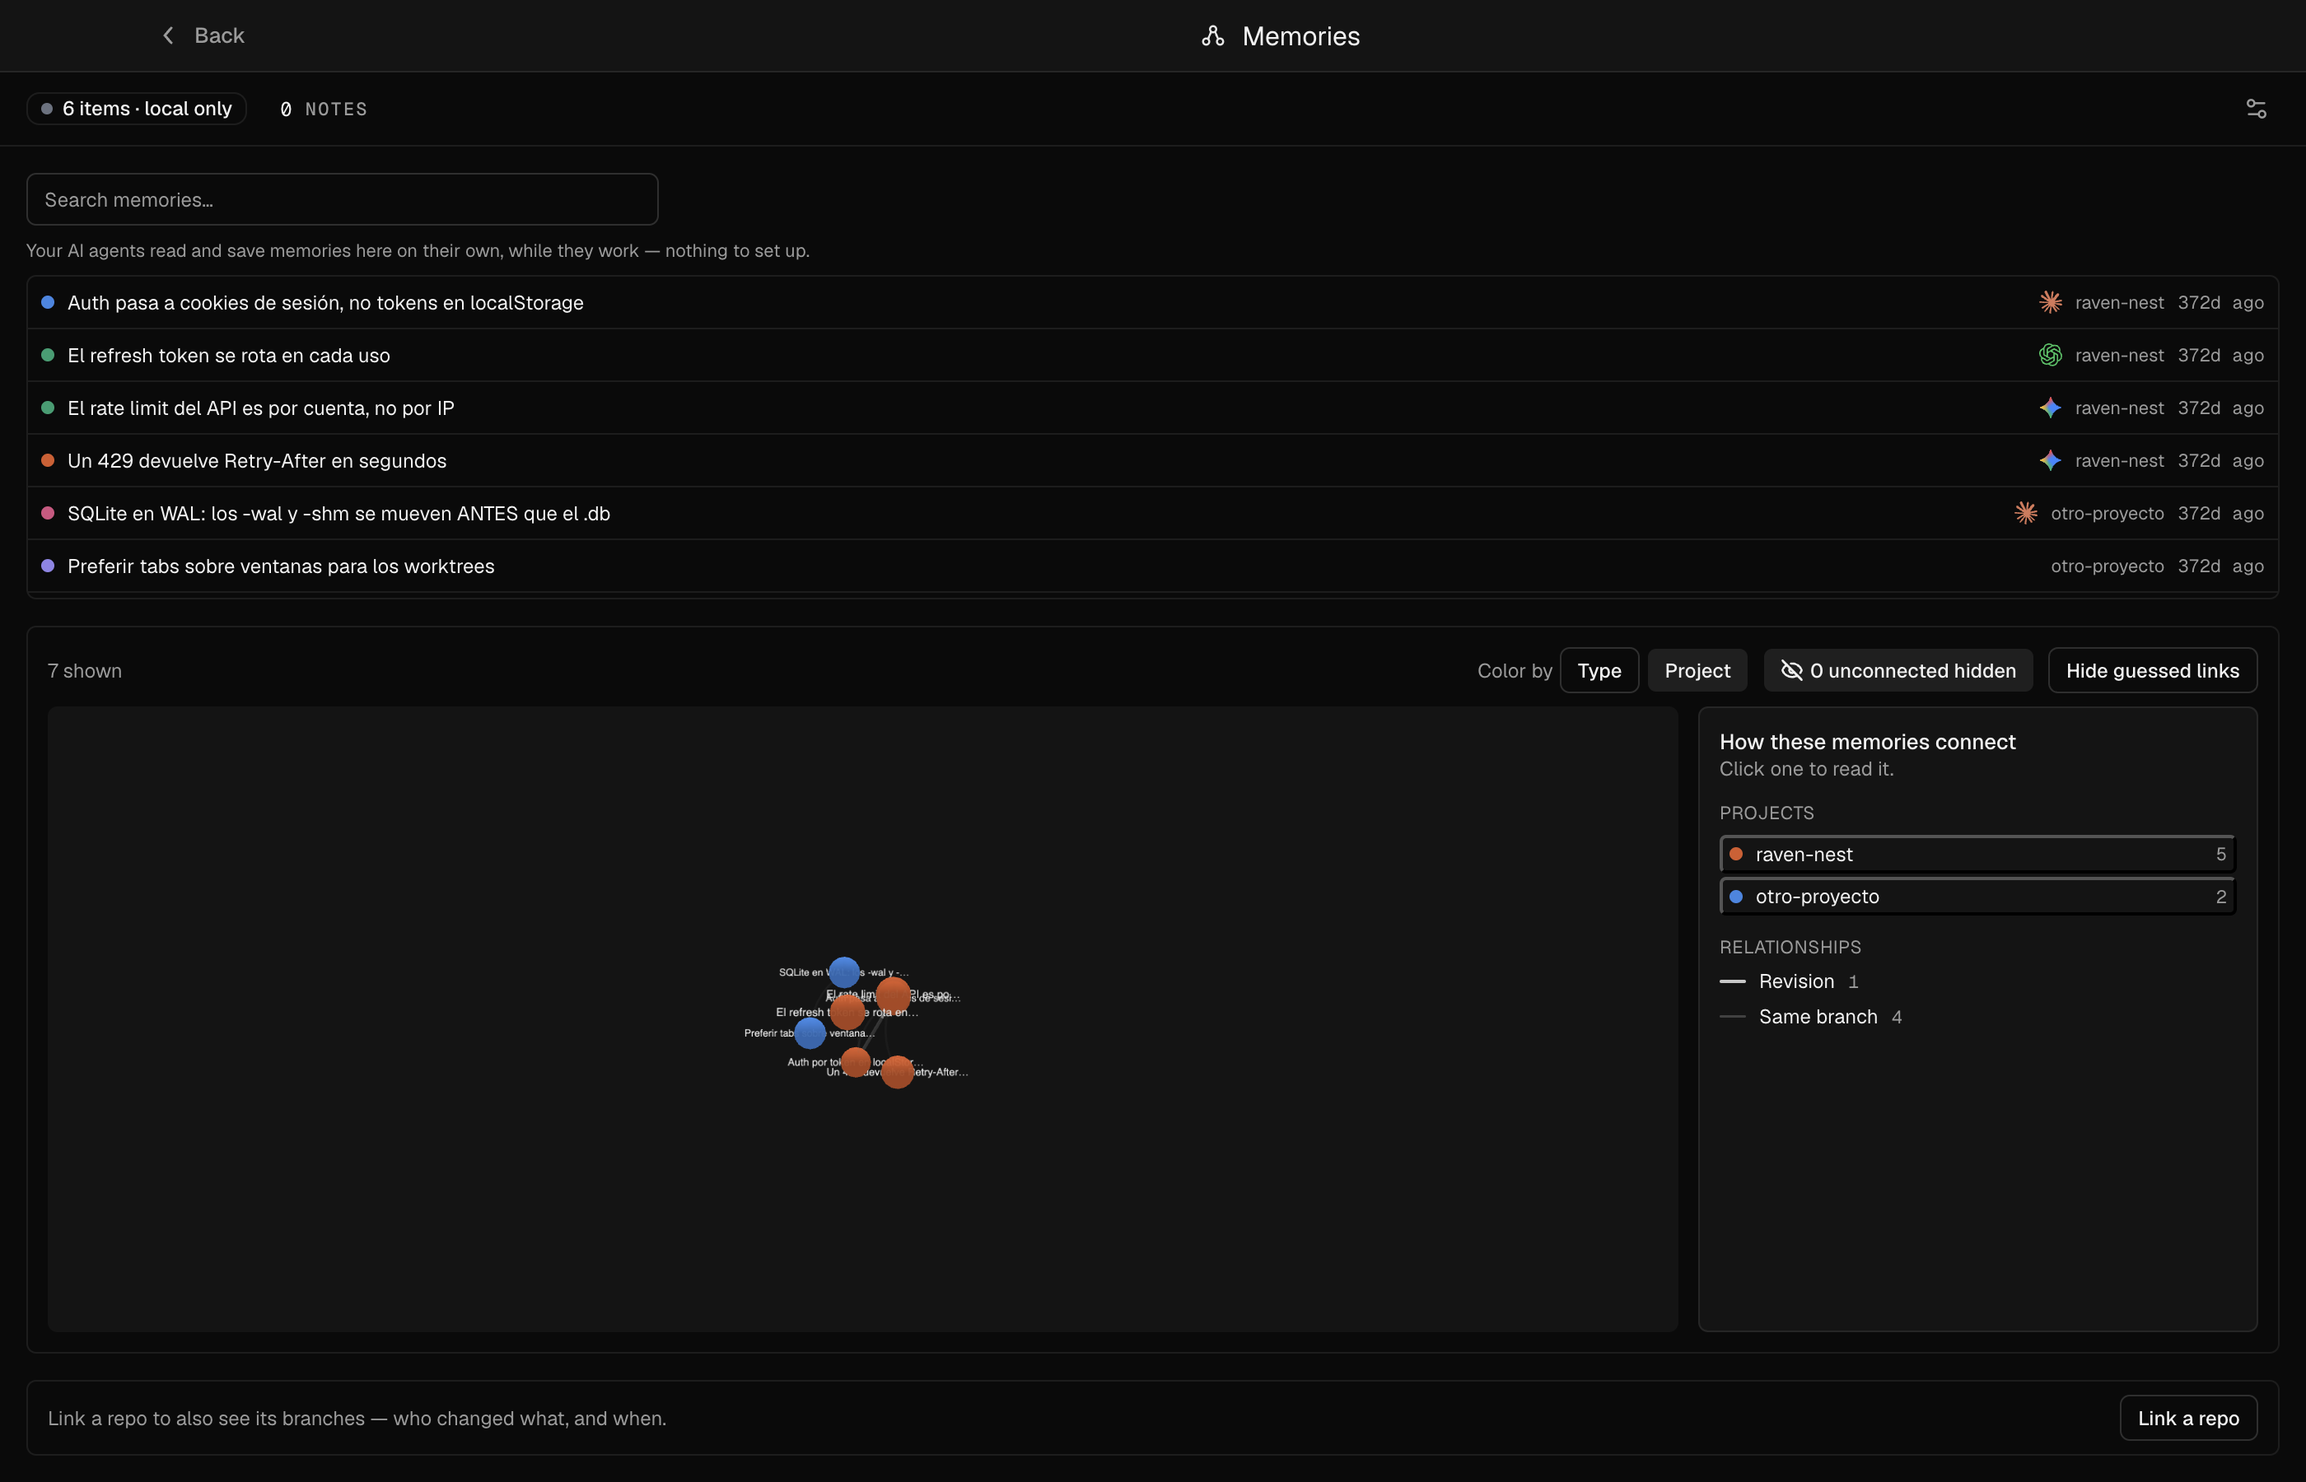
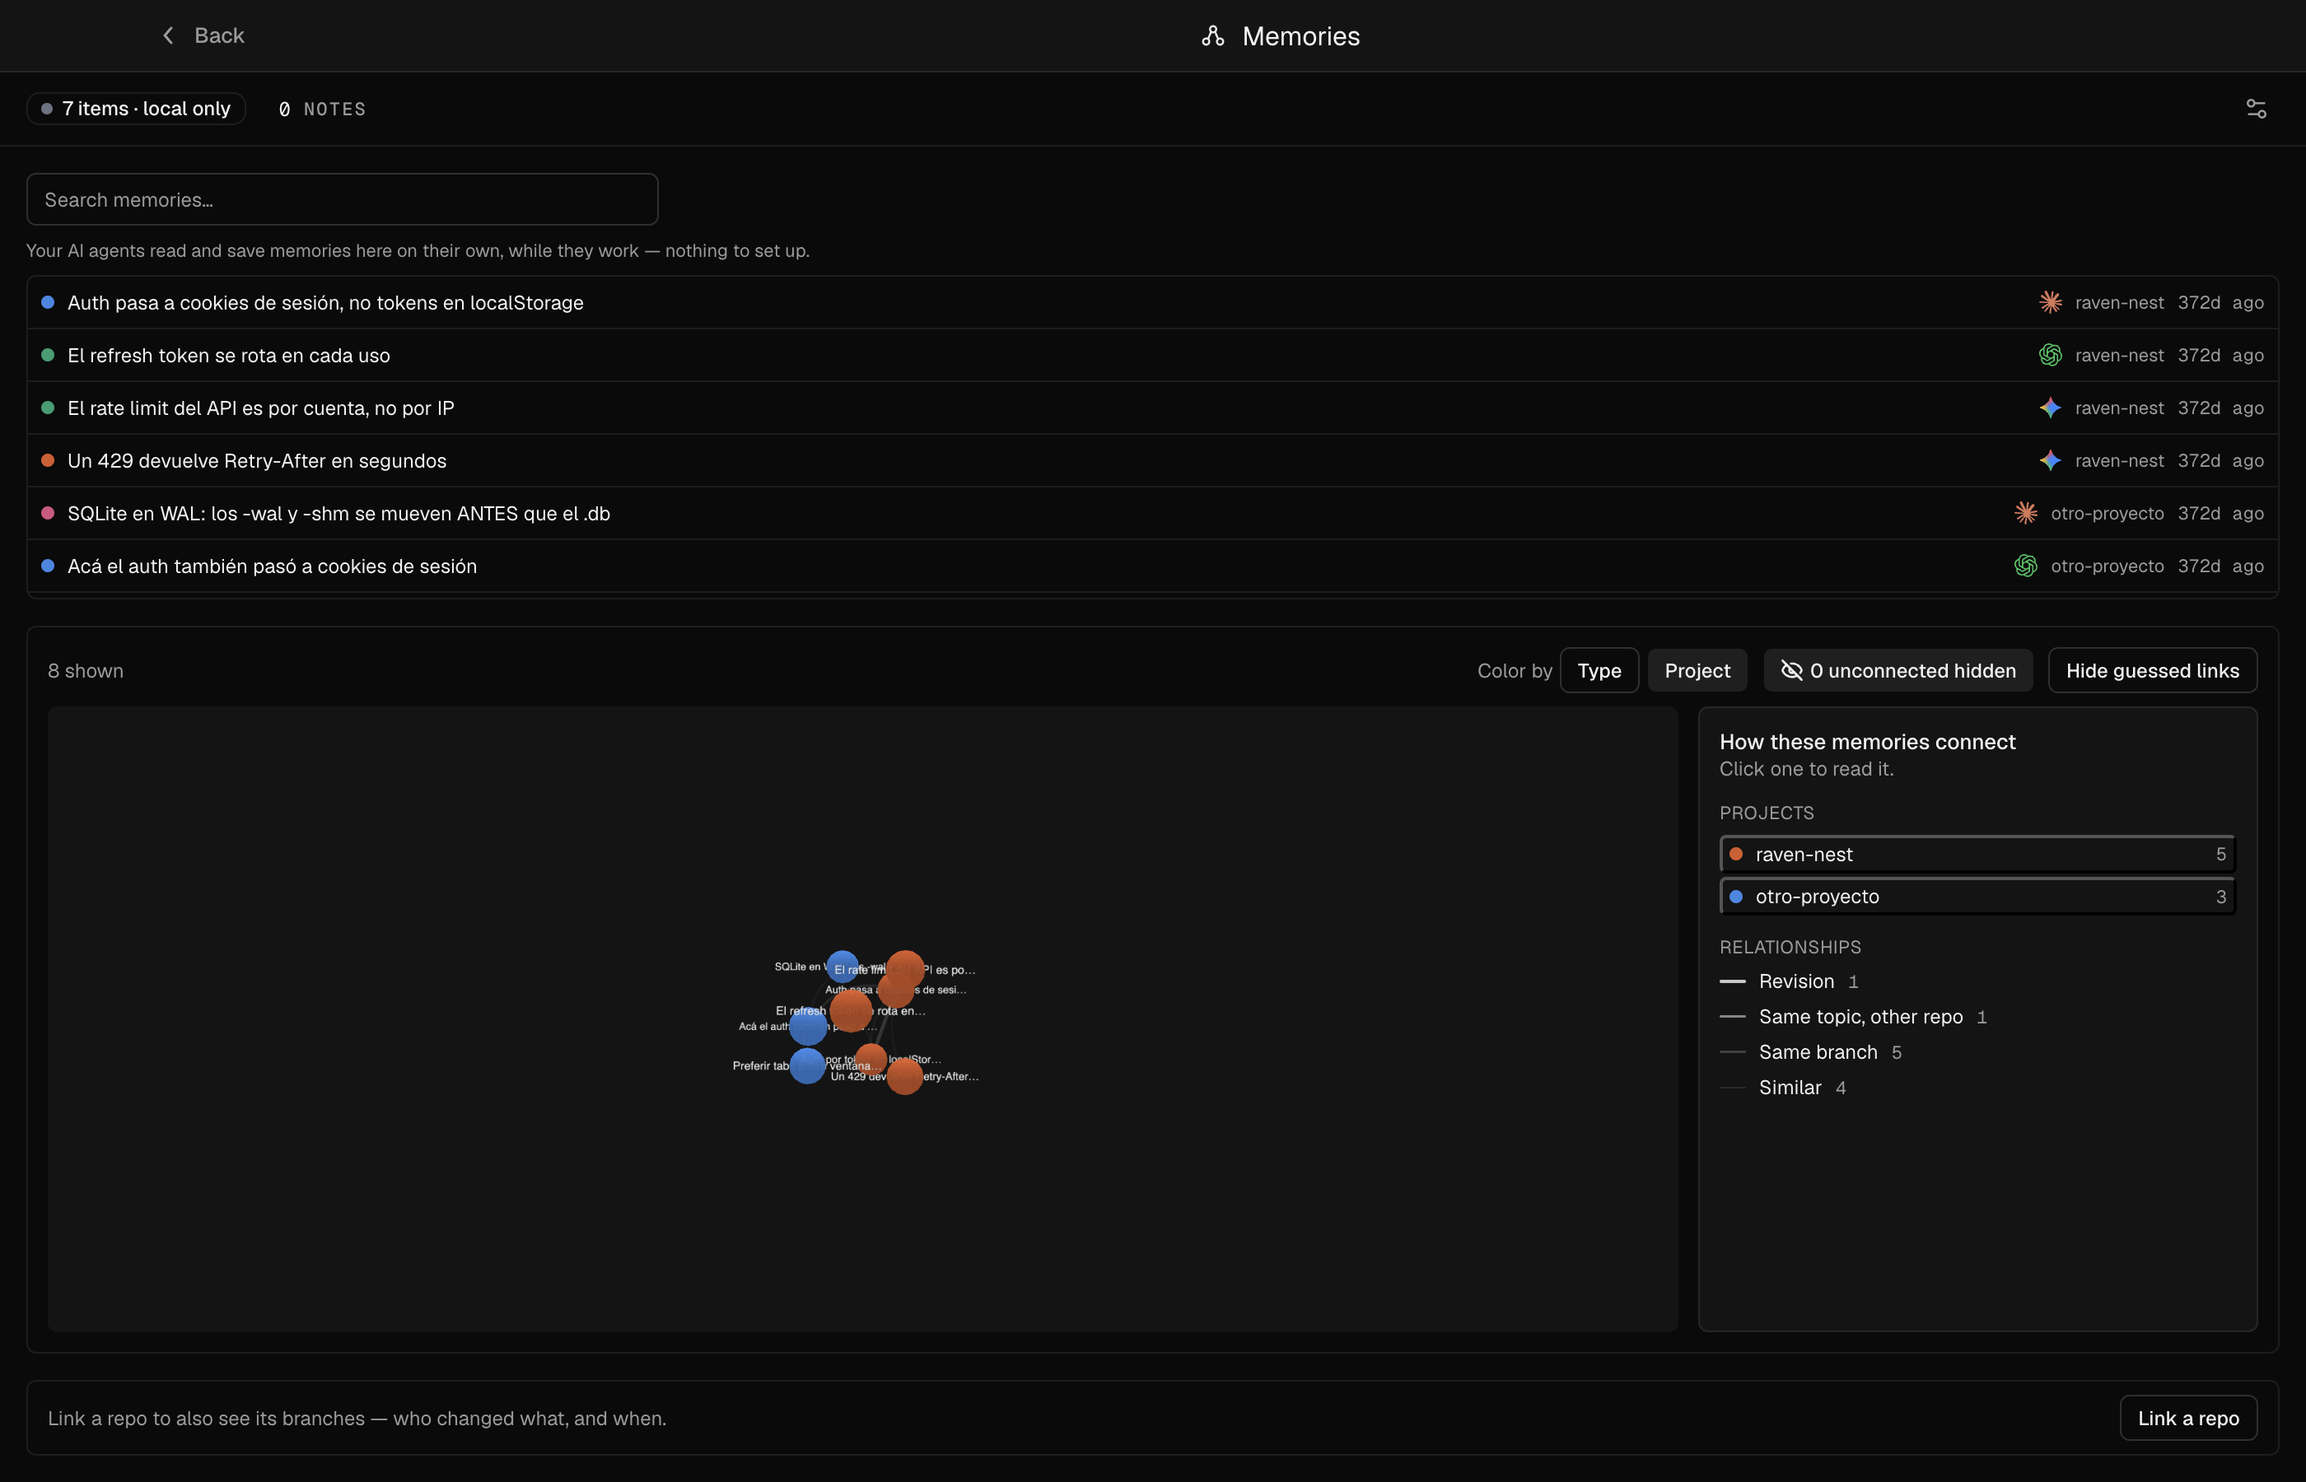
feat(grafo): "mismo tema, otro repo" — la primera arista de hecho que cruza proyectos
Pedido del usuario: "trabajo en conjunto entre repos tambien estaria bueno". Hoy
el grafo NO PODIA conectar dos repos: las cuatro aristas de hecho estan
escopeadas por proyecto, y la unica que cruzaba (`similar`) es inferencia y va
apagada por default.

El escopeo estaba bien fundado en tres de los cuatro casos y no se toca: dos
repos con una rama `main` no comparten nada, un `CLAUDE.md` en cada uno no es el
mismo documento, y una revision es de una memoria concreta. Pero un `topic_key`
SI es una decision deliberada de quien lo puso: si "auth" aparece en dos repos,
hay trabajo sobre el mismo tema en los dos lados, y eso es justo lo que un grafo
de varios proyectos tiene para aportar y no aportaba.

UN representante por proyecto --el mas reciente, con sync_id de desempate para
que no dependa del orden de las filas-- y despues cadena entre representantes. No
todos contra todos: un topic compartido por 4 repos con 10 memorias cada uno
daria 600 aristas en clique y taparia el grafo entero. Asi da 3.

El scope sigue separando: el mismo topic en `personal` y en `team` no cruza.
Mezclarlos filtraria memorias personales a un hilo de equipo.

Se reconoce sola en pantalla, ademas de por su estilo: es la unica que une dos
nodos de COLOR distinto cuando el grafo se colorea por proyecto. El sembrado del
e2e ahora tiene un topic compartido entre los dos proyectos, asi que el camino se
ejercita en pantalla y queda en la captura.
[…]

diff --git a/electron/memory-graph.ts b/electron/memory-graph.ts
@@ -29,7 +29,7 @@
 // vive detrás de `query.includeSimilar`, apagado por default.
 import type Database from 'better-sqlite3'
 
-export type MemoryEdgeKind = 'revision' | 'topic' | 'branch' | 'source' | 'similar'
+export type MemoryEdgeKind = 'revision' | 'topic' | 'branch' | 'source' | 'cross-topic' | 'similar'
 
 export interface MemoryGraphNode {
   syncId: string
@@ -150,6 +150,59 @@ function chainEdges(rows: GraphRow[], kind: MemoryEdgeKind, keyFn: (r: GraphRow)
     )
     for (let i = 0; i < ordered.length - 1; i++) {
       edges.push({ from: ordered[i].sync_id, to: ordered[i + 1].sync_id, kind, directed: false })
+    }
+  }
+  return edges
+}
+
+/**
+ * Aristas que CRUZAN proyectos: el mismo `topic_key` en dos repos distintos.
+ *
+ * Las otras tres aristas de hecho estan escopeadas por proyecto, y con razon: dos repos con
+ * una rama `main` no comparten nada, y un `CLAUDE.md` en cada uno no es el mismo documento.
+ * Pero un topic_key SI es una decision deliberada de quien lo puso — si "auth" aparece en
+ * dos repos, eso es trabajo sobre el mismo tema en los dos lados, que es justo lo que un
+ * grafo de varios proyectos tiene para aportar y hoy no aportaba.
+ *
+ * Un REPRESENTANTE por proyecto (el mas reciente), y despues cadena entre representantes.
+ * No todos contra todos: un topic compartido por 4 repos con 10 memorias cada uno daria
+ * 600 aristas en clique y taparia el grafo entero. Asi da 3.
+ */
+function crossProjectTopicEdges(rows: GraphRow[]): MemoryGraphEdge[] {
+  const porTopic = new Map<string, GraphRow[]>()
+  for (const r of rows) {
+    if (!r.topic_key) continue
+    const key = `${r.scope}\u0000${r.topic_key}`
+    const lista = porTopic.get(key)
+    if (lista) lista.push(r)
+    else porTopic.set(key, [r])
+  }
+
+  const edges: MemoryGraphEdge[] = []
+  for (const grupo of porTopic.values()) {
+    // Un representante por proyecto: el mas reciente, con sync_id de desempate para que el
+    // resultado no dependa del orden en que vinieron las filas.
+    const representantes = new Map<string, GraphRow>()
+    for (const r of grupo) {
+      const actual = representantes.get(r.project_key)
+      if (!actual
+        || r.updated_at > actual.updated_at
+        || (r.updated_at === actual.updated_at && r.sync_id < actual.sync_id)) {
+        representantes.set(r.project_key, r)
+      }
+    }
+    if (representantes.size < 2) continue
+
+    const ordenados = [...representantes.values()].sort(
+      (a, b) => a.project_key.localeCompare(b.project_key)
+    )
+    for (let i = 0; i < ordenados.length - 1; i++) {
+      edges.push({
+        from: ordenados[i].sync_id,
+        to: ordenados[i + 1].sync_id,
+        kind: 'cross-topic',
+        directed: false,
+      })
     }
   }
   return edges
@@ -393,7 +446,11 @@ export function buildMemoryGraph(db: Database.Database, query: MemoryGraphQuery)
     })
   )
 
-  // 5. similar — opt-in (query.includeSimilar), apagada por default. Es inferencia sobre
+  // 5. cross-topic — el mismo topic en OTRO repo. La unica arista de hecho que cruza
+  // proyectos; ver crossProjectTopicEdges para por que las otras no lo hacen.
+  edges.push(...crossProjectTopicEdges(selected))
+
+  // 6. similar — opt-in (query.includeSimilar), apagada por default. Es inferencia sobre
   // contenido, no un hecho declarado como las tres de arriba (ver MemoryGraphQuery). Si ya
   // hay una arista entre A y B por revision/topic/branch, esa gana y no se duplica.
   if (query.includeSimilar) {

diff --git a/electron/__tests__/memory-graph.test.ts b/electron/__tests__/memory-graph.test.ts
@@ -281,3 +281,65 @@ describe('arista source — mismo documento de origen', () => {
     expect(buildMemoryGraph(db, Q()).edges.filter((e) => e.kind === 'source')).toHaveLength(2)
   })
 })
+
+// La unica arista de HECHO que cruza proyectos. Las otras tres estan escopeadas por
+// proyecto con razon (dos repos con una rama `main` no comparten nada, un CLAUDE.md en cada
+// uno no es el mismo documento), pero un topic_key SI es una decision deliberada: si "auth"
+// aparece en dos repos, hay trabajo sobre el mismo tema en los dos lados.
+describe('arista cross-topic — el mismo tema en otro repo', () => {
+  it('une dos proyectos que comparten topic_key', () => {
+    insert({ syncId: 'a', projectKey: 'uno', topicKey: 'auth', updatedAt: 1 })
+    insert({ syncId: 'b', projectKey: 'dos', topicKey: 'auth', updatedAt: 2 })
+
+    const cross = buildMemoryGraph(db, Q()).edges.filter((e) => e.kind === 'cross-topic')
+    expect(cross).toHaveLength(1)
+    expect(cross[0].directed).toBe(false)
+  })
+
+  it('dentro del MISMO proyecto no emite cross-topic: para eso esta `topic`', () => {
+    insert({ syncId: 'a', projectKey: 'uno', topicKey: 'auth', updatedAt: 1 })
+    insert({ syncId: 'b', projectKey: 'uno', topicKey: 'auth', updatedAt: 2 })
+
+    const g = buildMemoryGraph(db, Q())
+    expect(g.edges.filter((e) => e.kind === 'cross-topic')).toHaveLength(0)
+    expect(g.edges.filter((e) => e.kind === 'topic')).toHaveLength(1)
+  })
+
+  it('topics distintos no se unen aunque sean de proyectos distintos', () => {
+    insert({ syncId: 'a', projectKey: 'uno', topicKey: 'auth', updatedAt: 1 })
+    insert({ syncId: 'b', projectKey: 'dos', topicKey: 'pagos', updatedAt: 2 })
+
+    expect(buildMemoryGraph(db, Q()).edges.filter((e) => e.kind === 'cross-topic')).toHaveLength(0)
+  })
+
+  // UN representante por proyecto, y despues cadena. Todos contra todos taparia el grafo:
+  // un topic compartido por 4 repos con 10 memorias cada uno daria 600 aristas.
+  it('con varias memorias por proyecto, une representantes: 3 repos dan 2 aristas', () => {
+    for (const [p, n] of [['uno', 3], ['dos', 3], ['tres', 3]] as const) {
+      for (let i = 0; i < n; i++) {
+        insert({ syncId: `${p}-${i}`, projectKey: p, topicKey: 'auth', updatedAt: i + 1 })
+      }
+    }
+
+    expect(buildMemoryGraph(db, Q()).edges.filter((e) => e.kind === 'cross-topic')).toHaveLength(2)
+  })
+
+  it('el representante de cada proyecto es el mas reciente', () => {
+    insert({ syncId: 'viejo', projectKey: 'uno', topicKey: 'auth', updatedAt: 1 })
+    insert({ syncId: 'nuevo', projectKey: 'uno', topicKey: 'auth', updatedAt: 9 })
+    insert({ syncId: 'otro', projectKey: 'dos', topicKey: 'auth', updatedAt: 5 })
+
+    const cross = buildMemoryGraph(db, Q()).edges.filter((e) => e.kind === 'cross-topic')
+    expect(cross).toHaveLength(1)
+    expect([cross[0].from, cross[0].to].sort()).toEqual(['nuevo', 'otro'])
+  })
+
+  // Un scope distinto no es el mismo tema: `personal` y `team` se llevan aparte en toda la
+  // capa de datos, y mezclarlos aca filtraria memorias personales a un hilo de equipo.
+  it('el mismo topic en scopes distintos no cruza', () => {
+    insert({ syncId: 'a', projectKey: 'uno', scope: 'personal', topicKey: 'auth', updatedAt: 1 })
+    insert({ syncId: 'b', projectKey: 'dos', scope: 'team', topicKey: 'auth', updatedAt: 2 })
+
+    expect(buildMemoryGraph(db, Q()).edges.filter((e) => e.kind === 'cross-topic')).toHaveLength(0)
+  })
+})

diff --git a/src/lib/memory-graph-visuals.ts b/src/lib/memory-graph-visuals.ts
@@ -134,6 +134,19 @@ export const EDGE_STYLES: Record<MemoryEdgeKind, EdgeStyle> = {
     label: 'Same document',
     meaning: 'Imported from the same file',
   },
+  // La unica arista de hecho que CRUZA proyectos: el mismo topic en dos repos. Va marcada
+  // --la mas ancha despues de `revision`, y curvada al reves que las demas-- porque es la
+  // que cuenta algo que ninguna vista de un solo proyecto puede mostrar: que hay trabajo
+  // sobre el mismo tema en los dos lados. Ademas se reconoce sola, porque es la unica que
+  // une dos nodos de COLOR distinto cuando el grafo se colorea por proyecto.
+  'cross-topic': {
+    width: 1.6,
+    color: 'rgba(210, 210, 210, 0.6)',
+    curvature: -0.4,
+    arrowLength: 0,
+    label: 'Same topic, other repo',
+    meaning: 'The same topic worked on in more than one project',
+  },
   similar: {
     width: 0.6,
     color: 'rgba(120, 120, 120, 0.22)',
@@ -144,7 +157,7 @@ export const EDGE_STYLES: Record<MemoryEdgeKind, EdgeStyle> = {
   },
 }
 
-export const EDGE_KINDS_IN_LEGEND_ORDER: MemoryEdgeKind[] = ['revision', 'topic', 'branch', 'source', 'similar']
+export const EDGE_KINDS_IN_LEGEND_ORDER: MemoryEdgeKind[] = ['revision', 'topic', 'cross-topic', 'branch', 'source', 'similar']
 
 function nodeLabel(node: MemoryGraphNode): string {
   return node.title.trim() || '(untitled)'
@@ -260,7 +273,9 @@ export function projectGroups(graph: MemoryGraph): ProjectGroup[] {
 
 /** Cuántas aristas de cada tipo hay. La leyenda no lista un tipo que no está en pantalla. */
 export function countEdgeKinds(data: GraphData): Record<MemoryEdgeKind, number> {
-  const out: Record<MemoryEdgeKind, number> = { revision: 0, topic: 0, branch: 0, source: 0, similar: 0 }
+  const out: Record<MemoryEdgeKind, number> = {
+    revision: 0, topic: 0, 'cross-topic': 0, branch: 0, source: 0, similar: 0,
+  }
   for (const l of data.links) out[l.kind] += 1
   return out
 }

diff --git a/src/__tests__/lib/memory-graph-visuals.test.ts b/src/__tests__/lib/memory-graph-visuals.test.ts
@@ -98,7 +98,7 @@ describe('EDGE_STYLES', () => {
   })
 
   it('similar es la mas tenue y la mas fina: es inferencia, no un hecho afirmado', () => {
-    const otras: MemoryEdgeKind[] = ['revision', 'topic', 'branch']
+    const otras: MemoryEdgeKind[] = ['revision', 'topic', 'branch', 'source', 'cross-topic']
     for (const k of otras) {
       expect(EDGE_STYLES.similar.width).toBeLessThan(EDGE_STYLES[k].width)
     }
@@ -129,7 +129,7 @@ describe('countEdgeKinds', () => {
         { from: 'a', to: 'c', kind: 'revision', directed: true },
       ],
     ), TODO)
-    expect(countEdgeKinds(data)).toEqual({ revision: 1, topic: 2, branch: 0, source: 0, similar: 0 })
+    expect(countEdgeKinds(data)).toEqual({ revision: 1, topic: 2, 'cross-topic': 0, branch: 0, source: 0, similar: 0 })
   })
 })
 

diff --git a/e2e/helpers/seed-memories.ts b/e2e/helpers/seed-memories.ts
@@ -176,6 +176,19 @@ export const MEMORIAS_DE_MUESTRA: SeedMemory[] = [
     tags: ['sqlite', 'datos'],
   },
   {
+    // Comparte `topic_key` con la memoria de auth de raven-nest, PERO vive en otro
+    // proyecto: es lo que ejercita la arista `cross-topic`, la unica de hecho que cruza
+    // repos. Sin un caso asi, ese camino no se toca nunca en pantalla.
+    syncId: 'm-auth-otro-repo',
+    projectKey: 'otro-proyecto',
+    title: 'Acá el auth también pasó a cookies de sesión',
+    type: 'decision',
+    topicKey: 'auth',
+    gitBranch: 'main',
+    originAi: 'codex',
+    tags: ['auth'],
+  },
+  {
     syncId: 'm-prefs-tabs',
     projectKey: 'otro-proyecto',
     title: 'Preferir tabs sobre ventanas para los worktrees',

diff --git a/e2e/08-memory-graph.spec.ts b/e2e/08-memory-graph.spec.ts
@@ -107,6 +107,9 @@ test('con memorias: el cuadro es acotado, y la seleccion es una sola entre lista
     //    con su color (el modelo de Obsidian).
     await expect(page.getByText('Revision', { exact: true })).toBeVisible()
     await expect(page.getByText('Same branch', { exact: true })).toBeVisible()
+    // La arista que cruza repos: el mismo topic en dos proyectos. Es lo unico que un grafo
+    // de varios proyectos puede mostrar y uno de un solo proyecto no.
+    await expect(page.getByText('Same topic, other repo', { exact: true })).toBeVisible()
     await expect(page.getByRole('button', { name: /^raven-nest/ })).toBeVisible()
 
     // El color lo elige el usuario, como los Groups de Obsidian (que son color por

diff --git a/src/types.ts b/src/types.ts
@@ -307,7 +307,7 @@ export interface TeamThreadSettings {
 /** Espejo de los tipos de electron/memory-graph.ts (src/ nunca importa de electron/). El
  *  puente de datos del grafo navegable de memorias — ver ese archivo para el detalle de
  *  cómo se computan revision/topic/branch. */
-export type MemoryEdgeKind = 'revision' | 'topic' | 'branch' | 'source' | 'similar'
+export type MemoryEdgeKind = 'revision' | 'topic' | 'branch' | 'source' | 'cross-topic' | 'similar'
 
 export interface MemoryGraphNode {
   syncId: string
